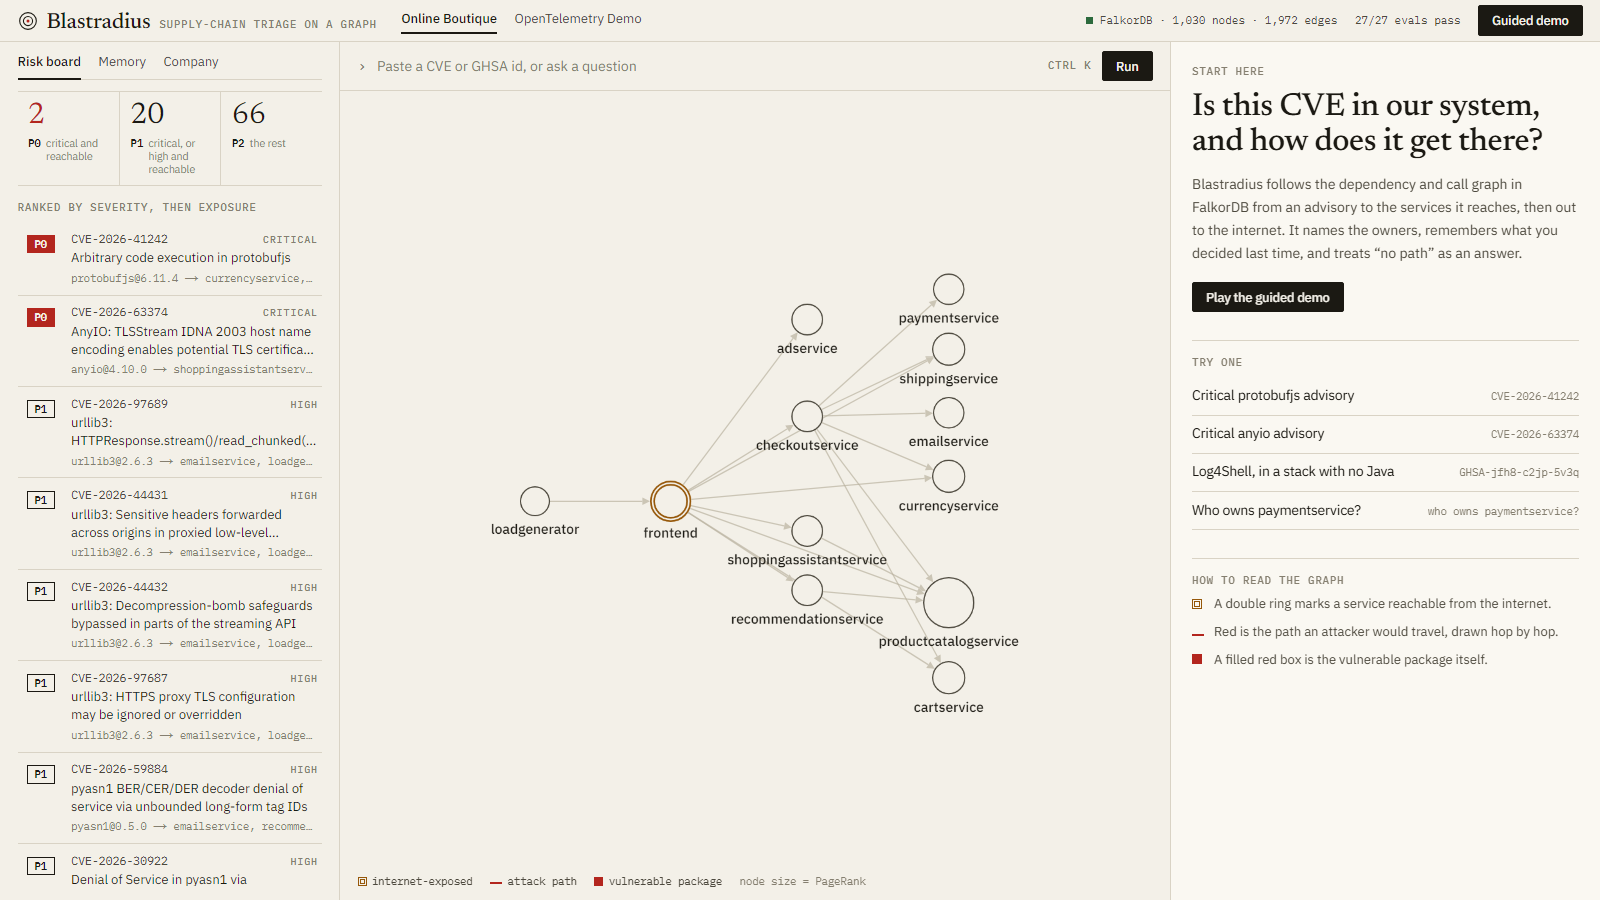
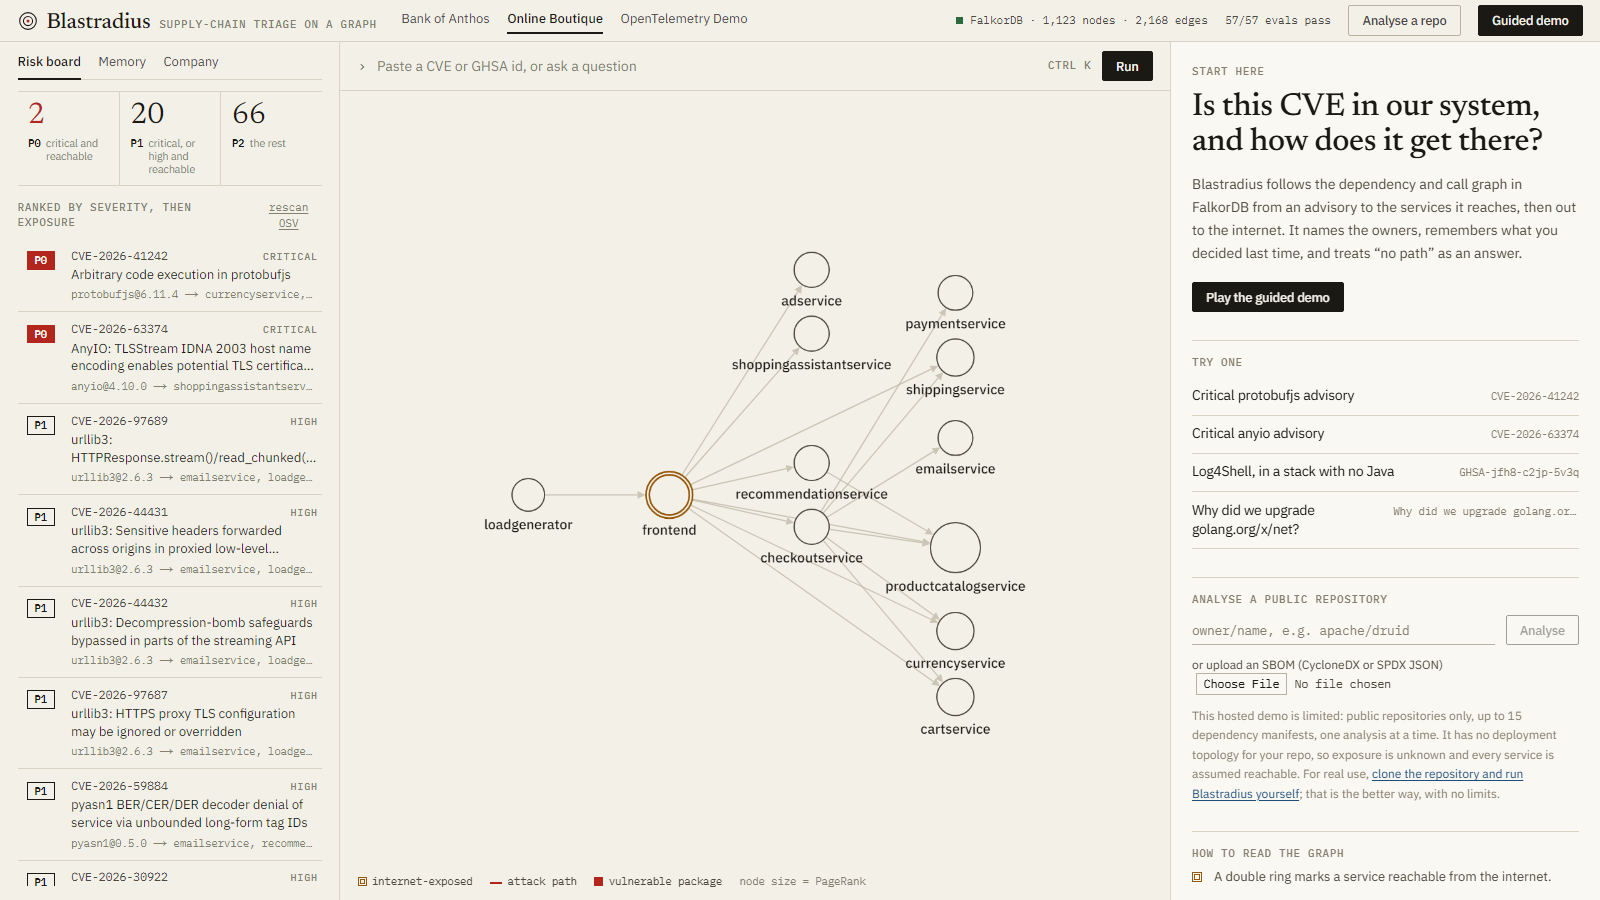
README first screen, refreshed screenshots

diff --git a/README.md b/README.md
@@ -13,9 +13,9 @@ Built for **Graph Hacks: Context for AI Agents** (WeMakeDevs × FalkorDB), enter
 
 | Track | What Blastradius does |
 |---|---|
-| 1 · Agents That Act on Connected Data | Multi-hop traversals (`service → package → … → vulnerable package`), blast radius over a service call graph **discovered from the project's own Kubernetes/Compose files**, PageRank, a deterministic judge, human-gated action proposals, an **MCP server** and an LLM tool loop. |
+| 1 · Agents That Act on Connected Data | Multi-hop traversals (`service → package → … → vulnerable package`), blast radius over a service call graph **discovered from the project's own Kubernetes/Compose files**, PageRank, **function-level reachability** (Go), a deterministic judge, human-gated action proposals, an **MCP server**, a Gemini tool loop with a visible trace, a **CI gate + SARIF**, **SBOM in/out** and a scheduled OSV watcher. |
 | 2 · Agent Memory & Coordination | Episodic cases, procedural playbooks with derived success counts, three agents handing off through graph state, **one graph per tenant** and **per-session memory isolation**, plus a [concurrency benchmark](BENCH.md). |
-| 3 · Company Brain | Ownership from CODEOWNERS, human expertise from commit history, dependency decisions **traced to the source commit**, `SUPERSEDES` edges marking stale knowledge. |
+| 3 · Company Brain | Ownership from CODEOWNERS, human expertise from commit history, dependency decisions **traced to the source commit and to the PR discussion that explains why** (Gemini extraction, checked by evals), `SUPERSEDES` edges marking stale knowledge. Three real projects: OpenTelemetry Demo, Online Boutique, Bank of Anthos. |
 
 ## Why a graph (and not a vector DB)
 *"Does this CVE reach production?"* is a path query: advisory → package → dependency chain → service → caller chain → internet-exposed entry point. A similarity search can't prove a path exists, and it can't prove one doesn't. In a graph **"no path found" is evidence**, which is how Blastradius proves Log4Shell does not affect a Node/Go/Python stack, and how it finds it in a Java one through a dependency the manifest never names.
@@ -28,11 +28,13 @@ Built for **Graph Hacks: Context for AI Agents** (WeMakeDevs × FalkorDB), enter
   { "mcpServers": { "blastradius": { "command": "<repo>/backend/.venv/Scripts/python.exe",
                                      "args": ["-m", "blastradius.mcp_server"], "cwd": "<repo>/backend" } } }
   ```
-  Tools: `list_tenants`, `risk_board`, `triage_advisory`, `blast_radius`, `who_owns`, `service_brain`, and `record_decision` (local only; it is not registered on a public server).
+  Tools: `list_tenants`, `risk_board`, `triage_advisory`, `blast_radius`, `who_owns`, `service_brain`, `why_decision`, and `record_decision` (local only; it is not registered on a public server).
 - **Chat.** A tool-calling loop on a free Gemini key (`GEMINI_API_KEY`); with no key a deterministic router answers the same tools, so everything works at $0.
 - **Know if the vulnerable function is actually called (Go).** For Go services, Blastradius brings in the official [`govulncheck`](https://go.dev/doc/security/vuln/) call-graph analysis: a vulnerable package is not a vulnerable *call*. The case file shows the real call stack (`shippingservice.main (main.go:99) → grpc.Server.Serve → … → http2.Framer.WriteContinuation`) or states that no call path exists, and a P0/P1 whose function is provably never called is demoted to P2 with the reason shown. Stored as `(Service)-[:REACHES {level, symbol, stack}]->(Advisory)`; the raw results are committed in the snapshot (`python -m blastradius.reach collect <tenant>` regenerates them in a Go container).
 - **Let it notice on its own.** **Rescan OSV** (or `python -m blastradius.watch --all` from cron) re-queries every package, finds advisories published since the graph was built, writes them into the graph marked *new*, and triages them with the same judge.
 - **Take the decision with you.** Approved decisions export as an **[OpenVEX](https://openvex.dev)** document (fixed / not affected with your rationale / risk accepted) from the Memory tab.
+- **Bring an SBOM, or take one.** Upload CycloneDX/SPDX JSON to analyse it, or export any tenant as CycloneDX 1.5 (see [SBOM in, SBOM out](#sbom-in-sbom-out)).
+- **Block risky pull requests.** A GitHub Action and CLI fail a PR only for what it introduces, with SARIF (see [CI gate](#ci-gate-and-scheduled-watcher)).
 - **Stress it.** The Memory tab runs 10/50/100 concurrent agents against shared graph memory.
 
 ## Run it locally ($0, no accounts, works offline)
@@ -44,7 +46,7 @@ docker compose up -d falkordb                      # FalkorDB (browser UI on :30
 cd backend
 python -m venv .venv && .venv/Scripts/activate     # or: source .venv/bin/activate
 pip install -r requirements.txt
-python -m blastradius.build                        # builds both tenant graphs from the committed snapshot (offline, under a minute)
+python -m blastradius.build                        # builds all three tenant graphs from the committed snapshot (offline, under a minute)
 uvicorn blastradius.api:app --port 8000
 
 cd ../web && npm install
